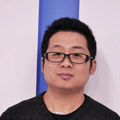
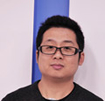
pan

diff --git a/index_en.html b/index_en.html
@@ -51,7 +51,7 @@
       <div class="diggerlab_mike"><a href="#mike"><img src="images/mike.jpg" data-photo-org="images/mike.jpg"  data-photo-back="images/mike_1.jpg" alt="mike" /></a> </div>
       <div class="diggerlab_blueduo"><a href="#blueduo"><img src="images/blueduo.jpg" data-photo-org="images/blueduo.jpg"  data-photo-back="images/blueduo_1.jpg" alt="blueduo" /></a> </div>
       <div class="diggerlab_nami"><a href="#nami"><img src="images/nami.jpg"  data-photo-org="images/nami.jpg"  data-photo-back="images/nami_1.jpg" alt="nami" /></a> </div>
-      <div class="diggerlab_ryan"><a href="#jobs"><img src="images/wanted.gif" data-photo-org="images/wanted.gif"  data-photo-back="images/wanted_1.gif"  alt="Join Us" /></a> </div>
+      <div class="diggerlab_ryan"><a href="#pan"><img src="images/pan.jpg" data-photo-org="images/pan.jpg"  data-photo-back="images/pan_1.jpg"  alt="pan" /></a> </div>
     </div>
     <div id="member_intro"> </div>
     <div id="kan" style="display:none;"> <img src="images/kan_big.jpg" alt="kan" class="team_big" /> <span class="team_js">
@@ -93,6 +93,13 @@
       <p class="txt"> BS Candidate in Industry Design, Chinese Academy of Art<br />
       </p>
       </span> </div>
+       <div id="pan" name="pan" style="display:none"> <img src="images/pan_big.jpg" alt="pan" class="team_big" /> <span class="team_js">
+      <p class="name">Xu Pan (Web Engineer)</p>
+      <p class="txt"> 2 years mobile and server-end development experiences<br />Worked at LG Electronics.<br />Graduated from Harbin Institute of Technology major in Computer Science.<br /> <a href="http://weibo.com/aubade" target="_blank"><img src="images/weibo_icon.jpg" alt="weibo" /></a> </p>
+      </p>
+      </span> </div>
+      
+      
     <div class="clear"></div>
     <div class="menu_title" id="advisors"><img src="images/patron.gif" alt="mentor" /></div>
     <div class="advisors_list"> <img src="images/allen.jpg" alt="Allen" /> <span class="advisors_js">

diff --git a/index.html b/index.html
@@ -53,7 +53,7 @@
       <div class="diggerlab_mike"><a href="#mike"><img src="images/mike.jpg" data-photo-org="images/mike.jpg"  data-photo-back="images/mike_1.jpg" alt="mike" /></a> </div>
       <div class="diggerlab_blueduo"><a href="#blueduo"><img src="images/blueduo.jpg" data-photo-org="images/blueduo.jpg"  data-photo-back="images/blueduo_1.jpg" alt="blueduo" /></a> </div>
       <div class="diggerlab_nami"><a href="#nami"><img src="images/nami.jpg"  data-photo-org="images/nami.jpg"  data-photo-back="images/nami_1.jpg" alt="nami" /></a> </div>
-      <div class="diggerlab_ryan"><a href="#jobs"><img src="images/wanted.gif" data-photo-org="images/wanted.gif"  data-photo-back="images/wanted_1.gif"  alt="Join Us" /></a> </div>
+      <div class="diggerlab_ryan"><a href="#pan"><img src="images/pan.jpg" data-photo-org="images/pan.jpg"  data-photo-back="images/pan_1.jpg"  alt="pan" /></a> </div>
     </div>
     <div id="member_intro"> </div>
     <div id="kan" style="display:none"> <img src="images/kan_big.jpg" alt="kan" class="team_big" /> <span class="team_js">
@@ -92,6 +92,11 @@
     <div id="nami" name="nami" style="display:none"> <img src="images/nami_big.jpg" alt="nami" class="team_big" /> <span class="team_js">
       <p class="name">侯卓宇 (设计实习)</p>
       <p class="txt"> 中国美院工业设计专业在读. <br />
+      </p>
+      </span> </div> 
+      <div id="pan" name="pan" style="display:none"> <img src="images/pan_big.jpg" alt="pan" class="team_big" /> <span class="team_js">
+      <p class="name">潘旭 (后端工程师)</p>
+      <p class="txt"> 2年手机开发工作经验<br />2年互联网后端工作经验<br />曾就职于LG电子<br />本科毕业于哈尔滨工业大学<br /> <a href="http://weibo.com/aubade" target="_blank"><img src="images/weibo_icon.jpg" alt="weibo" /></a> </p>
       </p>
       </span> </div>
     <div class="clear"></div>
